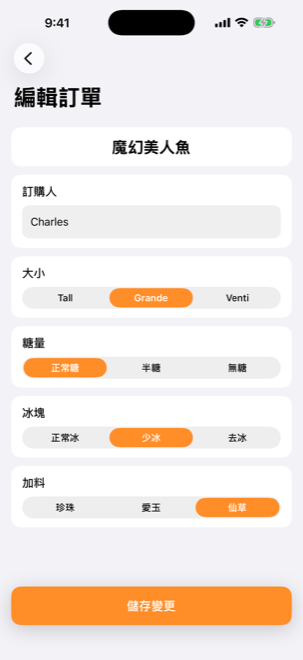
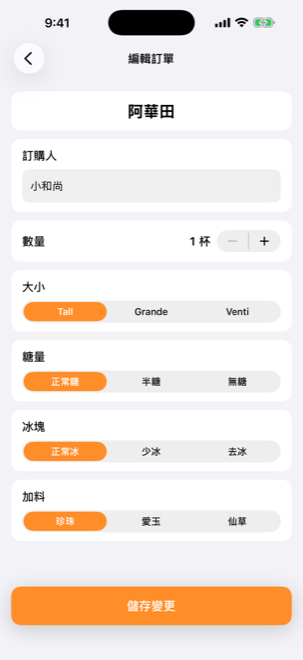
feat(orders): editable quantity — extend Firestore schema with quantity + unitPrice
編輯訂單頁原本沒有改杯數的選項(EditOrderVC 檔頭也有註記),因為 Firestore
文件只存最終 price 字串、沒留 quantity 跟 unit price,改杯數時算不出新 total。

- Schema:OrderData 加 quantity: Int? + unitPrice: String? 兩個 optional 欄
  (舊文件可正常解出);placeOrder 寫入這兩欄,updateOrder 接 quantity + unitPrice
  並用 unitPrice × quantity 重算 price 後一起 update
- EditOrderViewModel:加 initialQuantity / unitPrice 屬性,三段 fallback —
  document `unitPrice` → ProductCatalog 反查 drinkName → 整單 price (quantity=1);
  save 接 quantity 並 clamp ≥ 1
- EditOrderViewController:加「數量」card(label + UIStepper minValue=1),
  順帶修一個 UI bug — push 自 OrderDetailVC(prefersLargeTitles=true)會繼承
  large title,跟此頁的 UIScrollView 收合行為不合導致 title 半遮 →
  navigationItem.largeTitleDisplayMode = .never 強制 inline
- Tests:Mock + EditOrderViewModelTests 對應更新,新增 4 個案例
  (quantity clamp / initialQuantity fallback / unitPrice 三段 fallback),35 全綠
- Docs:README schema 表加兩欄、已知限制移除「只存總價」、重截 06-edit.png;
  roadmap Done 補;DECISIONS 加段記 schema A/B 選型理由與 quantity 用 number 的原因

diff --git a/NewOrderOoOTests/EditOrderViewModelTests.swift b/NewOrderOoOTests/EditOrderViewModelTests.swift
@@ -17,7 +17,7 @@ final class EditOrderViewModelTests: XCTestCase {
         let initial = OrderData(
             id: "order-1", orderName: "Alice", drinkName: "Latte",
             drinkSize: "Tall", sugar: "正常糖", cold: "正常冰", add: "珍珠",
-            price: "TWD 45", uid: "test-uid"
+            price: "TWD 90", quantity: 2, unitPrice: "TWD 45", uid: "test-uid"
         )
         sut = EditOrderViewModel(orderID: "order-1", initialOrder: initial, repository: repo)
     }
@@ -32,7 +32,7 @@ final class EditOrderViewModelTests: XCTestCase {
 
     func testSaveEmptyNameThrowsMissingName() async {
         do {
-            try await sut.save(name: "  ", size: .tall, sugar: .full, ice: .normal, add: .pearl)
+            try await sut.save(name: "  ", size: .tall, sugar: .full, ice: .normal, add: .pearl, quantity: 2)
             XCTFail("expected throw")
         } catch OrderError.missingName {
             // OK
@@ -43,7 +43,7 @@ final class EditOrderViewModelTests: XCTestCase {
     }
 
     func testSaveTrimsWhitespace() async throws {
-        try await sut.save(name: "  Bob  ", size: .grande, sugar: .half, ice: .less, add: .aiyu)
+        try await sut.save(name: "  Bob  ", size: .grande, sugar: .half, ice: .less, add: .aiyu, quantity: 2)
         XCTAssertEqual(repo.updateOrderCalls.count, 1)
         XCTAssertEqual(repo.updateOrderCalls[0].name, "Bob")
     }
@@ -51,7 +51,7 @@ final class EditOrderViewModelTests: XCTestCase {
     // MARK: - 寫入
 
     func testSaveHappyPathPassesAllArgsToRepository() async throws {
-        try await sut.save(name: "Charles", size: .venti, sugar: .none, ice: .none, add: .grassJelly)
+        try await sut.save(name: "Charles", size: .venti, sugar: .none, ice: .none, add: .grassJelly, quantity: 3)
         XCTAssertEqual(repo.updateOrderCalls.count, 1)
         let call = repo.updateOrderCalls[0]
         XCTAssertEqual(call.id, "order-1")
@@ -60,13 +60,20 @@ final class EditOrderViewModelTests: XCTestCase {
         XCTAssertEqual(call.sugar, .none)
         XCTAssertEqual(call.ice, .none)
         XCTAssertEqual(call.add, .grassJelly)
+        XCTAssertEqual(call.quantity, 3)
+        XCTAssertEqual(call.unitPrice, Money.parse("TWD 45"), "unitPrice 應從 initialOrder.unitPrice 帶")
+    }
+
+    func testSaveClampsQuantityToAtLeastOne() async throws {
+        try await sut.save(name: "Alice", size: .tall, sugar: .full, ice: .normal, add: .pearl, quantity: 0)
+        XCTAssertEqual(repo.updateOrderCalls.first?.quantity, 1, "0 / 負數應被 clamp 成 1")
     }
 
     func testSavePropagatesRepositoryError() async {
         struct FakeError: Error {}
         repo.stubUpdateOrderError = FakeError()
         do {
-            try await sut.save(name: "Alice", size: .tall, sugar: .full, ice: .normal, add: .pearl)
+            try await sut.save(name: "Alice", size: .tall, sugar: .full, ice: .normal, add: .pearl, quantity: 1)
             XCTFail("expected throw")
         } catch is FakeError {
             // OK
@@ -75,11 +82,44 @@ final class EditOrderViewModelTests: XCTestCase {
         }
     }
 
-    // MARK: - 初始狀態
+    // MARK: - 初始狀態 + unitPrice fallback
 
     func testInitialOrderExposedForPrefill() {
         XCTAssertEqual(sut.orderID, "order-1")
         XCTAssertEqual(sut.initialOrder.orderName, "Alice")
         XCTAssertEqual(sut.initialOrder.drinkName, "Latte")
+        XCTAssertEqual(sut.initialQuantity, 2)
+    }
+
+    func testInitialQuantityFallbacksToOneWhenMissing() {
+        let legacy = OrderData(
+            id: "old", orderName: "X", drinkName: "拿鐵咖啡",
+            drinkSize: "Tall", sugar: "正常糖", cold: "正常冰", add: "珍珠",
+            price: "TWD 45", quantity: nil, unitPrice: nil, uid: "test-uid"
+        )
+        let vm = EditOrderViewModel(orderID: "old", initialOrder: legacy, repository: repo)
+        XCTAssertEqual(vm.initialQuantity, 1)
+    }
+
+    /// 舊文件沒 `unitPrice` 欄,從 `ProductCatalog` 反查 drinkName 取得單價
+    func testUnitPriceFallbacksToCatalogWhenMissing() {
+        let legacy = OrderData(
+            id: "old", orderName: "X", drinkName: "拿鐵咖啡",
+            drinkSize: "Tall", sugar: "正常糖", cold: "正常冰", add: "珍珠",
+            price: "TWD 45", quantity: nil, unitPrice: nil, uid: "test-uid"
+        )
+        let vm = EditOrderViewModel(orderID: "old", initialOrder: legacy, repository: repo)
+        XCTAssertEqual(vm.unitPrice, Money.parse("$45.00"))
+    }
+
+    /// 連 catalog 都查不到(產品被刪 / 改名),最後用 order.price 當 unitPrice
+    func testUnitPriceFallbacksToOrderPriceWhenCatalogMissesToo() {
+        let orphan = OrderData(
+            id: "old", orderName: "X", drinkName: "已下架商品",
+            drinkSize: "Tall", sugar: "正常糖", cold: "正常冰", add: "珍珠",
+            price: "TWD 99", quantity: nil, unitPrice: nil, uid: "test-uid"
+        )
+        let vm = EditOrderViewModel(orderID: "old", initialOrder: orphan, repository: repo)
+        XCTAssertEqual(vm.unitPrice, Money.parse("TWD 99"))
     }
 }

diff --git a/NewOrderOoO/EditOrderViewController.swift b/NewOrderOoO/EditOrderViewController.swift
@@ -2,7 +2,7 @@
 //  EditOrderViewController.swift
 //  NewOrderOoO
 //
-//  編輯既有訂單(改規格 / 訂購人姓名),不改數量(quantity 並未存於 Firestore)。
+//  編輯既有訂單(規格 / 訂購人 / 杯數)。
 //
 
 import UIKit
@@ -17,6 +17,8 @@ final class EditOrderViewController: UIViewController {
 
     private let drinkLabel = UILabel()
     private let nameField = UITextField()
+    private let quantityValueLabel = UILabel()
+    private let quantityStepper = UIStepper()
     private let sizeSegment = UISegmentedControl(items: DrinkSize.allCases.map { $0.displayName })
     private let sugarSegment = UISegmentedControl(items: SugarLevel.allCases.map { $0.displayName })
     private let iceSegment = UISegmentedControl(items: IceLevel.allCases.map { $0.displayName })
@@ -30,6 +32,9 @@ final class EditOrderViewController: UIViewController {
     override func viewDidLoad() {
         super.viewDidLoad()
         title = "編輯訂單"
+        // OrderDetailVC 開啟 prefersLargeTitles,push 過來會繼承 large title;
+        // 此頁用 UIScrollView 而非 UITableView,跟 large title 收合行為不合 → 強制 inline。
+        navigationItem.largeTitleDisplayMode = .never
         view.backgroundColor = AppTheme.pageBackground
 
         setupUI()
@@ -79,6 +84,17 @@ final class EditOrderViewController: UIViewController {
         sugarSegment.selectedSegmentIndex = SugarLevel.allCases.firstIndex { $0.rawValue == order.sugar } ?? 0
         iceSegment.selectedSegmentIndex = IceLevel.allCases.firstIndex { $0.rawValue == order.cold } ?? 0
         addSegment.selectedSegmentIndex = AddOn.allCases.firstIndex { $0.rawValue == order.add } ?? 0
+        // UIStepper.value 跟 quantity 是 1:1(從 1 開始);minimumValue = 1 才不會出現 0 杯
+        quantityStepper.value = Double(viewModel.initialQuantity)
+        refreshQuantityLabel()
+    }
+
+    @objc private func quantityStepperChanged() {
+        refreshQuantityLabel()
+    }
+
+    private func refreshQuantityLabel() {
+        quantityValueLabel.text = "\(Int(quantityStepper.value)) 杯"
     }
 
     private func setupUI() {
@@ -103,6 +119,18 @@ final class EditOrderViewController: UIViewController {
         drinkLabel.font = AppTheme.Font.detailTitle
         drinkLabel.textColor = AppTheme.primaryText
         drinkLabel.textAlignment = .center
+
+        quantityValueLabel.font = .monospacedDigitSystemFont(ofSize: 17, weight: .semibold)
+        quantityValueLabel.textColor = AppTheme.primaryText
+        quantityValueLabel.textAlignment = .right
+        quantityValueLabel.setContentHuggingPriority(.required, for: .horizontal)
+
+        quantityStepper.tintColor = AppTheme.accent
+        quantityStepper.minimumValue = 1
+        quantityStepper.maximumValue = 99
+        quantityStepper.stepValue = 1
+        quantityStepper.value = 1
+        quantityStepper.addTarget(self, action: #selector(quantityStepperChanged), for: .valueChanged)
 
         saveButton.setTitle("儲存變更", for: .normal)
         saveButton.titleLabel?.font = AppTheme.Font.buttonLabel
@@ -186,12 +214,21 @@ final class EditOrderViewController: UIViewController {
 
         let drinkCard = formCard([drinkLabel])
         let nameCard = formCard([sectionTitle("訂購人"), nameField])
+
+        // 數量 card:title 在左、value+stepper 在右,一行內排完
+        let qtyTitle = sectionTitle("數量")
+        let qtyRow = UIStackView(arrangedSubviews: [qtyTitle, UIView(), quantityValueLabel, quantityStepper])
+        qtyRow.axis = .horizontal
+        qtyRow.alignment = .center
+        qtyRow.spacing = 8
+        let quantityCard = formCard([qtyRow])
+
         let sizeCard = formCard([sectionTitle("大小"), sizeSegment])
         let sugarCard = formCard([sectionTitle("糖量"), sugarSegment])
         let iceCard = formCard([sectionTitle("冰塊"), iceSegment])
         let addCard = formCard([sectionTitle("加料"), addSegment])
 
-        let stack = UIStackView(arrangedSubviews: [drinkCard, nameCard, sizeCard, sugarCard, iceCard, addCard])
+        let stack = UIStackView(arrangedSubviews: [drinkCard, nameCard, quantityCard, sizeCard, sugarCard, iceCard, addCard])
         stack.axis = .vertical
         stack.spacing = 12
         return stack
@@ -204,11 +241,12 @@ final class EditOrderViewController: UIViewController {
         let sugar = SugarLevel.allCases[sugarSegment.selectedSegmentIndex]
         let ice = IceLevel.allCases[iceSegment.selectedSegmentIndex]
         let add = AddOn.allCases[addSegment.selectedSegmentIndex]
+        let quantity = Int(quantityStepper.value)
 
         Task { [weak self] in
             guard let self = self else { return }
             do {
-                try await self.viewModel.save(name: name, size: size, sugar: sugar, ice: ice, add: add)
+                try await self.viewModel.save(name: name, size: size, sugar: sugar, ice: ice, add: add, quantity: quantity)
                 await MainActor.run {
                     self.onSaved?()
                     self.navigationController?.popViewController(animated: true)

diff --git a/NewOrderOoO/ViewModels.swift b/NewOrderOoO/ViewModels.swift
@@ -120,13 +120,27 @@ final class EditOrderViewModel {
         self.repository = repository
     }
 
+    /// 初始杯數;舊文件沒 `quantity` 欄就 fallback 1
+    var initialQuantity: Int { max(1, initialOrder.quantity ?? 1) }
+
+    /// 單杯價格;優先用文件存的 `unitPrice`,其次從 `ProductCatalog` 反查 drinkName,最後 fallback 整單 price(等同 quantity=1)
+    var unitPrice: Money {
+        if let str = initialOrder.unitPrice, let m = Money.parse(str) { return m }
+        if let product = ProductCatalog.all.first(where: { $0.name == initialOrder.drinkName }),
+           let m = Money.parse(product.price) { return m }
+        return Money.parse(initialOrder.price) ?? .zero
+    }
+
     /// 驗證 + 寫入。空 / 全空白 name throw `OrderError.missingName`;repository 錯誤原樣傳遞。
-    func save(name: String, size: DrinkSize, sugar: SugarLevel, ice: IceLevel, add: AddOn) async throws {
+    /// total price 由 repository 端用 `unitPrice * quantity` 重算,呼叫端不負責。
+    func save(name: String, size: DrinkSize, sugar: SugarLevel, ice: IceLevel, add: AddOn, quantity: Int) async throws {
         let trimmed = name.trimmingCharacters(in: .whitespaces)
         guard !trimmed.isEmpty else { throw OrderError.missingName }
+        let qty = max(1, quantity)
         try await repository.updateOrder(
             id: orderID, orderName: trimmed,
-            size: size, sugar: sugar, ice: ice, add: add
+            size: size, sugar: sugar, ice: ice, add: add,
+            quantity: qty, unitPrice: unitPrice
         )
     }
 }

diff --git a/NewOrderOoO/OrderRepository.swift b/NewOrderOoO/OrderRepository.swift
@@ -15,7 +15,7 @@ protocol OrderRepository {
     func placeOrder(_ input: OrderInput) async throws -> String
     func fetchOrders() async throws -> [OrderData]
     func deleteOrder(id: String) async throws
-    func updateOrder(id: String, orderName: String, size: DrinkSize, sugar: SugarLevel, ice: IceLevel, add: AddOn) async throws
+    func updateOrder(id: String, orderName: String, size: DrinkSize, sugar: SugarLevel, ice: IceLevel, add: AddOn, quantity: Int, unitPrice: Money) async throws
 }
 
 enum RepositoryError: LocalizedError {
@@ -76,6 +76,8 @@ final class FirestoreOrderRepository: OrderRepository {
             "cold": input.ice.rawValue,
             "add": input.add.rawValue,
             "price": input.totalPrice.formattedISO(),
+            "quantity": input.quantity,
+            "unitPrice": input.unitPrice.formattedISO(),
             "uid": uid,
         ]
         let ref = try await db.collection(collectionName).addDocument(data: data)
@@ -97,15 +99,19 @@ final class FirestoreOrderRepository: OrderRepository {
         try await db.collection(collectionName).document(id).delete()
     }
 
-    func updateOrder(id: String, orderName: String, size: DrinkSize, sugar: SugarLevel, ice: IceLevel, add: AddOn) async throws {
+    func updateOrder(id: String, orderName: String, size: DrinkSize, sugar: SugarLevel, ice: IceLevel, add: AddOn, quantity: Int, unitPrice: Money) async throws {
         _ = try await currentUid()
         let db = try firestore()
+        let total = unitPrice * quantity
         try await db.collection(collectionName).document(id).updateData([
             "orderName": orderName,
             "drinkSize": size.rawValue,
             "sugar": sugar.rawValue,
             "cold": ice.rawValue,
             "add": add.rawValue,
+            "quantity": quantity,
+            "unitPrice": unitPrice.formattedISO(),
+            "price": total.formattedISO(),
         ])
     }
 

diff --git a/NewOrderOoOTests/MockOrderRepository.swift b/NewOrderOoOTests/MockOrderRepository.swift
@@ -18,7 +18,7 @@ final class MockOrderRepository: OrderRepository {
     // 觀察:測試後可看呼叫紀錄
     private(set) var placeOrderCalls: [OrderInput] = []
     private(set) var deleteOrderCalls: [String] = []
-    private(set) var updateOrderCalls: [(id: String, name: String, size: DrinkSize, sugar: SugarLevel, ice: IceLevel, add: AddOn)] = []
+    private(set) var updateOrderCalls: [(id: String, name: String, size: DrinkSize, sugar: SugarLevel, ice: IceLevel, add: AddOn, quantity: Int, unitPrice: Money)] = []
 
     func placeOrder(_ input: OrderInput) async throws -> String {
         placeOrderCalls.append(input)
@@ -36,8 +36,8 @@ final class MockOrderRepository: OrderRepository {
         if let error = stubDeleteOrderError { throw error }
     }
 
-    func updateOrder(id: String, orderName: String, size: DrinkSize, sugar: SugarLevel, ice: IceLevel, add: AddOn) async throws {
-        updateOrderCalls.append((id, orderName, size, sugar, ice, add))
+    func updateOrder(id: String, orderName: String, size: DrinkSize, sugar: SugarLevel, ice: IceLevel, add: AddOn, quantity: Int, unitPrice: Money) async throws {
+        updateOrderCalls.append((id, orderName, size, sugar, ice, add, quantity, unitPrice))
         if let error = stubUpdateOrderError { throw error }
     }
 }

diff --git a/NewOrderOoO/OrderData.swift b/NewOrderOoO/OrderData.swift
@@ -15,5 +15,7 @@ struct OrderData: Codable, Identifiable {
     var cold: String
     var add: String
     var price: String
-    var uid: String?  // 文件擁有者,給 Firestore Security Rules 用
+    var quantity: Int? = nil      // 杯數;Firestore schema 後加的欄位,舊文件可能沒有,所以 optional
+    var unitPrice: String? = nil  // 單杯價格(例如 "TWD 45"),用於編輯時重算總額;同上,舊文件可能沒有
+    var uid: String? = nil  // 文件擁有者,給 Firestore Security Rules 用
 }

diff --git a/DECISIONS.md b/DECISIONS.md
@@ -69,6 +69,16 @@
 - UIView 包 UILabel 要兩層約束,不必要
 - UILabel 子類覆寫 `intrinsicContentSize` / `drawText(in:)` / `layoutSubviews` 算 capsule 圓角,單一元件
 
+## 編輯訂單支援改杯數 → Firestore schema 加 `quantity` + `unitPrice`
+
+- 早期 schema 只存 `price` 字串(`"TWD 90"`),沒留 quantity / unit price → 編輯時無法重算 total,所以 EditOrderVC 刻意省略數量欄位
+- 修法選項:
+  - **A**:擴充 schema,加 `quantity: Int?` + `unitPrice: String?` 兩個 optional 欄;`placeOrder` 寫入,`updateOrder` 重算 total
+  - **B**:不動 schema,編輯時從 `ProductCatalog` 反查 unit price(用 `drinkName` 當 key)
+- 選 A,理由:結構乾淨、編輯時不依賴靜態 catalog、未來 catalog 漲價也不會回頭算錯歷史單
+- 兩欄設成 `optional` 而非 required,讓舊文件(沒這兩欄)還能正常解出 `OrderData`;EditVM 內 fallback 三段:document `unitPrice` → catalog 反查 → 整單 `price`(假設 quantity=1)
+- `quantity` 用 number 存(不像其他欄位都字串):跟「Firestore 資料仍存字串」那條的取捨不同 — quantity 是純計數,沒有單位或顯示格式議題,直接存 Int 更省心,parse 也少一層
+
 ## `OrderListViewModel` 拆 sync `removeLocally` + async `deleteRemote`
 
 - VM 對外有三個 method:`delete(at:) async throws`(原 API,給單元測試)、`removeLocally(at:) -> String?`(sync)、`deleteRemote(id:) async throws`(async)

diff --git a/README.md b/README.md
@@ -30,7 +30,7 @@ Repo 不包含真實 Firebase 設定檔。clone 後即使沒有 `GoogleService-I
 | 訂單列表 | 取消（左滑刪除） | 編輯訂單 |
 | :---: | :---: | :---: |
 | <img src="screenshots/04-orderlist.png" width="240" alt="訂單列表"> | <img src="screenshots/05-swipe.png" width="240" alt="左滑刪除 / 取消"> | <img src="screenshots/06-edit.png" width="240" alt="編輯訂單"> |
-| 讀取目前 uid 的訂單，搭配 hero card。 | 左滑顯示「考慮 / 刪除」動作。 | 直接修改訂購人與規格後存回 Firestore。 |
+| 讀取目前 uid 的訂單，搭配 hero card。 | 左滑顯示「考慮 / 刪除」動作。 | 修改訂購人 / 杯數 / 規格後存回 Firestore，總額用 unitPrice × quantity 重算。 |
 
 ## 技術棧
 
@@ -126,7 +126,9 @@ Collection：`orderList`
 | `sugar` | string | `正常糖` / `半糖` / `無糖` |
 | `cold` | string | `正常冰` / `少冰` / `去冰` |
 | `add` | string | `珍珠` / `愛玉` / `仙草` |
-| `price` | string | 訂單總額，例如 `TWD 90` |
+| `quantity` | number | 杯數（後加欄位，舊文件可能沒有，編輯時 fallback 為 1） |
+| `unitPrice` | string | 單杯價格，例如 `TWD 45`（後加欄位，舊文件可能沒有，編輯時從 `ProductCatalog` 反查） |
+| `price` | string | 訂單總額（= `unitPrice × quantity`），例如 `TWD 90` |
 
 ## Firebase 設定
 
@@ -169,7 +171,6 @@ open NewOrderOoO.xcodeproj
 ## 已知限制
 
 - 商品資料目前寫死在 `ProductCatalog`，尚未改成從 Firestore 載入。
-- 訂單目前只儲存總價，沒有保存 quantity 與 unit price。
 - Anonymous Auth 適合 demo；正式產品應支援 Apple / Google 登入與帳號資料轉移。
 - 舊資料 migration helper 已從預設載入流程移除，避免公開 demo 接管其他使用者資料。
 

diff --git a/roadmap.md b/roadmap.md
@@ -13,7 +13,7 @@
 - [x] Firebase Anonymous Auth + Firestore Security Rules(per-user scoped)
 - [x] 載入 / 空 / 錯誤狀態 UI(`StatusOverlayView`)
 - [x] 下單後 Receipt 確認頁
-- [x] 編輯訂單(規格 + 訂購人)
+- [x] 編輯訂單(規格 + 訂購人 + 杯數;Firestore schema 加 `quantity` / `unitPrice`,total 由 unitPrice × quantity 重算)
 - [x] 下單成功本地推播(`UNUserNotificationCenter` + foreground banner)
 - [x] App Icon (Decanted Light — 俯瞰奶茶交融漩渦,單顆 pearl 為焦點,一筆奶白拉花)
 - [x] `.gitignore` (Xcode / Swift / SPM 標準)